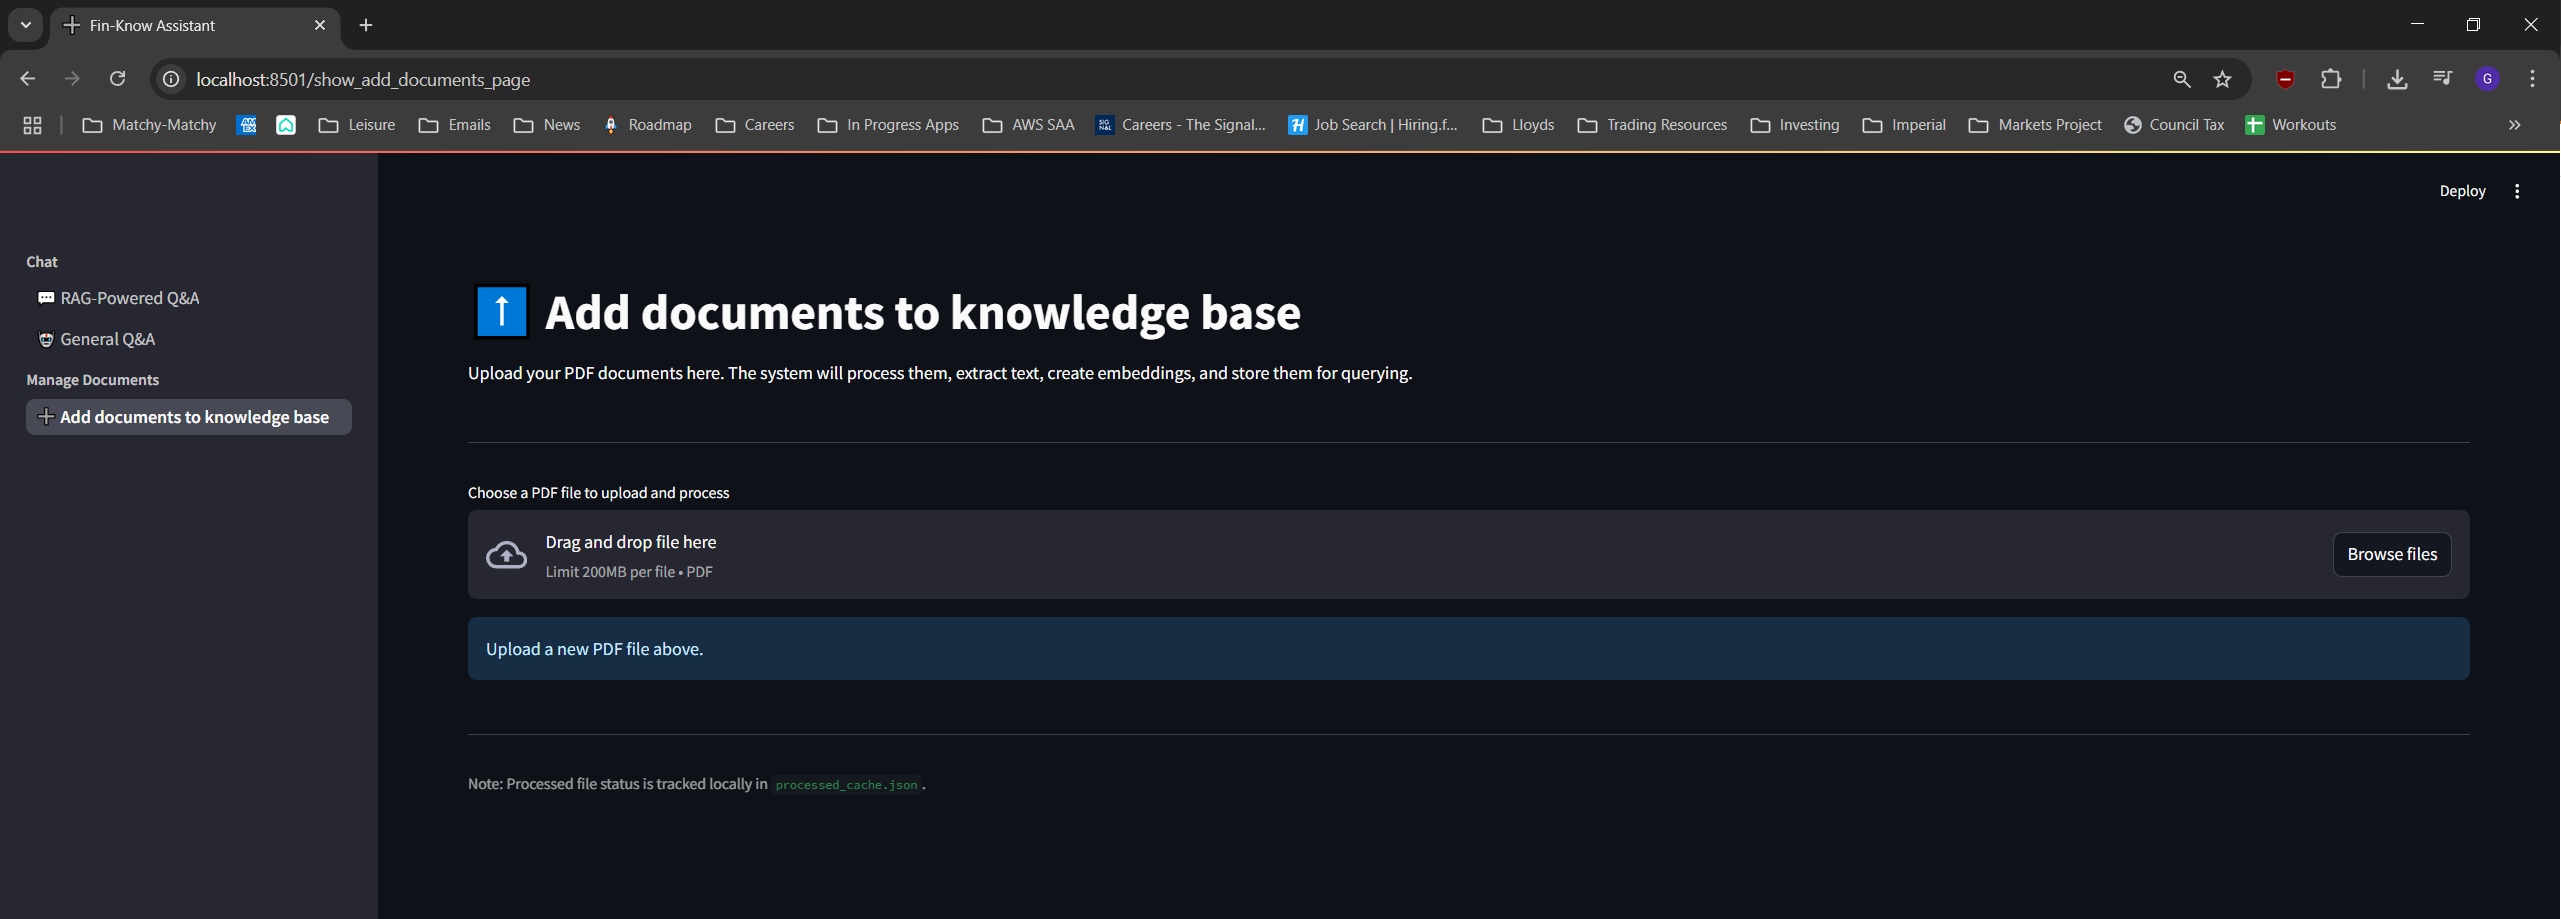
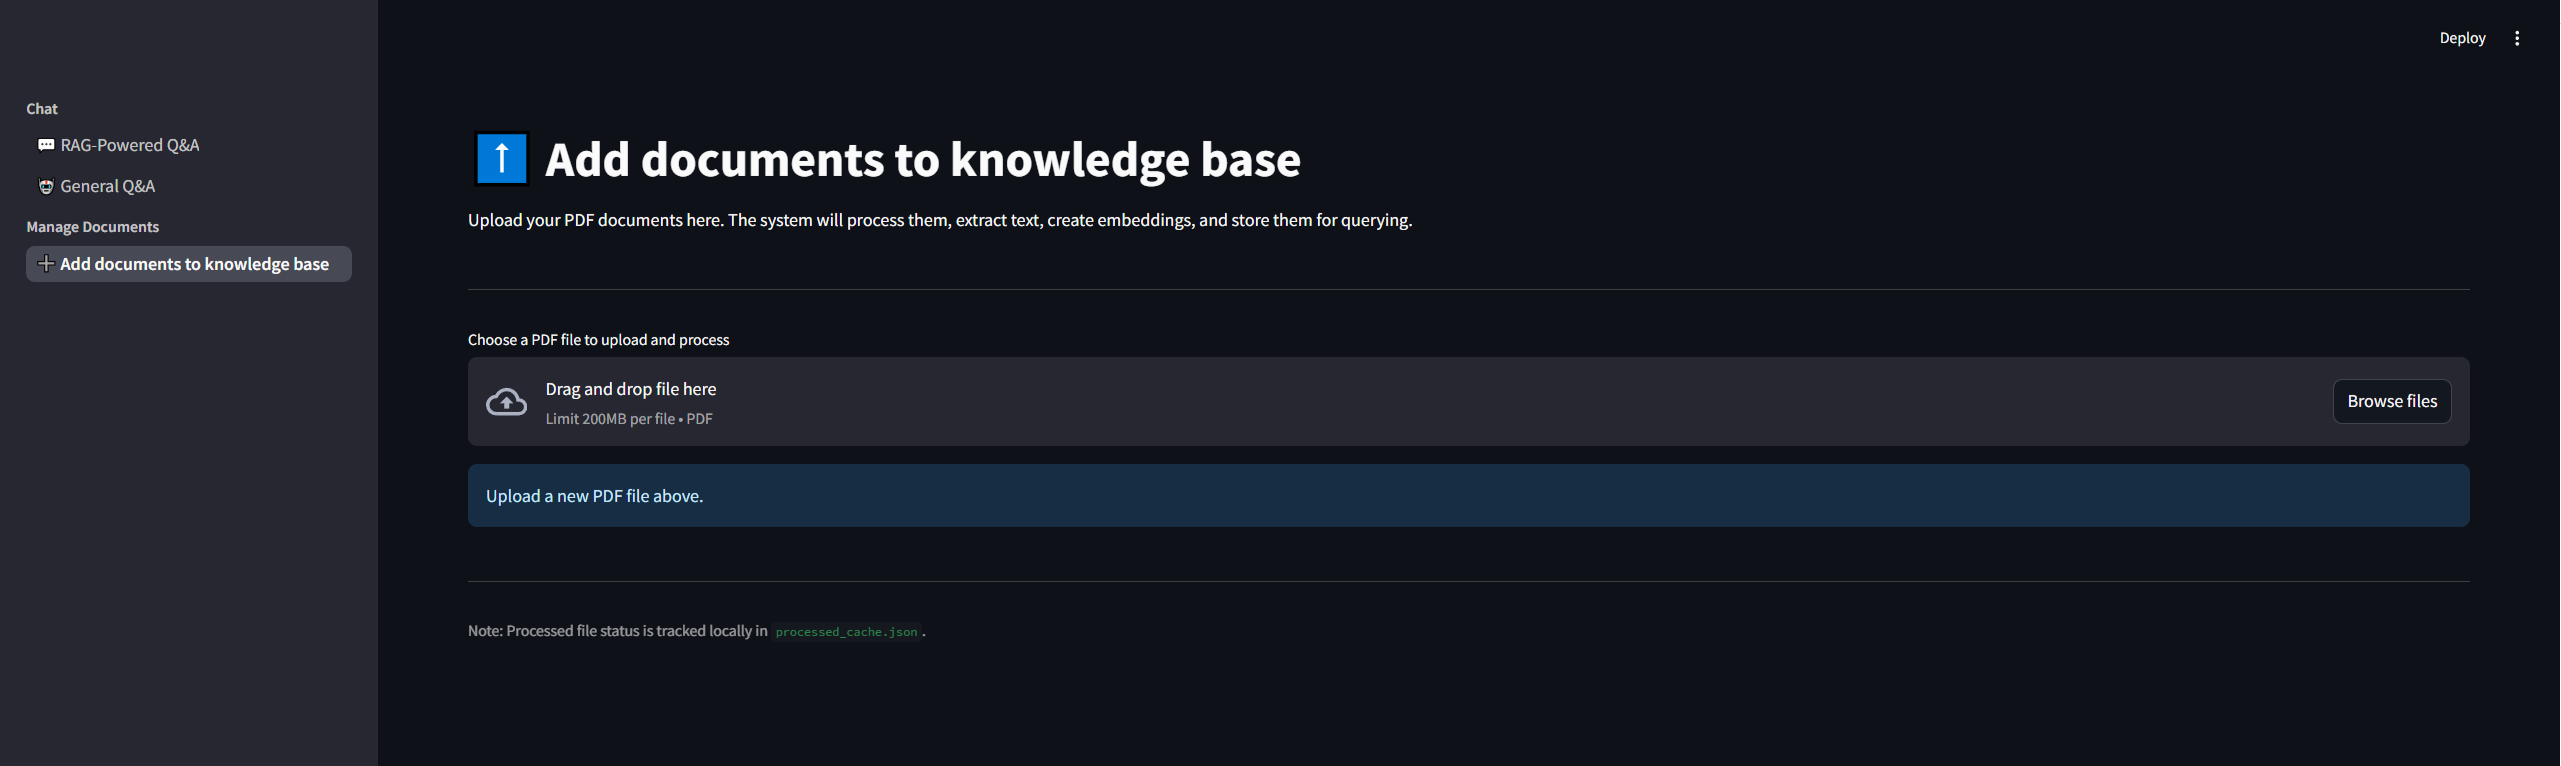
updating the photos and adding a sentence to readme

diff --git a/README.md b/README.md
@@ -1,4 +1,4 @@
-# FinKnow
+# Fin-Know
 
 ## Summary and Purpose
 FinKnow is a small reference application that demonstrates how to build a Retrieval-Augmented Generation (RAG) workflow for financial documents. Users can upload PDF statements, embed their contents and query them using a language model. The project also exposes basic API endpoints for programmatic access.
@@ -7,6 +7,8 @@ FinKnow is a small reference application that demonstrates how to build a Retrie
 - **RAG-Powered Q&A** – ask questions about uploaded PDFs with answers generated from retrieved document chunks.
 - **General Q&A** – chat directly with the language model without document context.
 - **Add Documents** – upload and process PDF files. Extracted chunks are embedded and stored in Qdrant. A local cache tracks processed files.
+
+**For an example of how the pages look like without needing to launch the app** I have attached some screenshots in the "example_snips" directory,
 
 Additional features include chunking of documents with LangChain, OpenAI embeddings, and a simple FastAPI backend.
 
